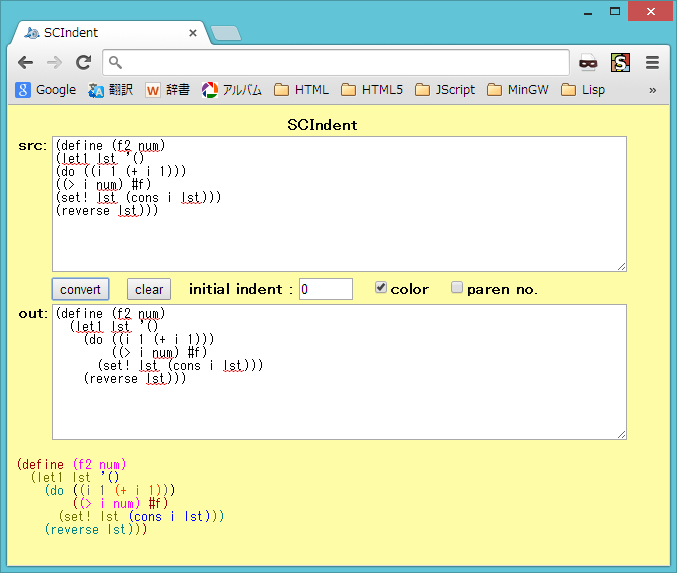
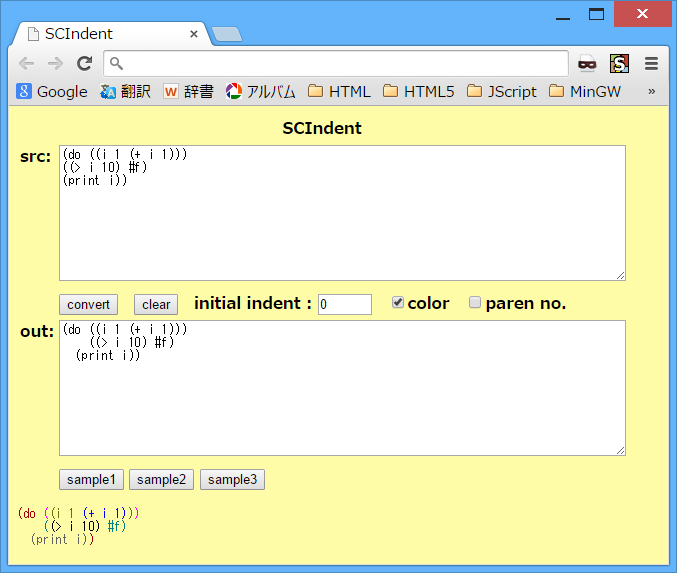
src chg v1.30

diff --git a/scindent.html b/scindent.html
@@ -5,7 +5,7 @@
 <title>SCIndent</title>
 <!--
     scindent.html
-    2015-2-11 v1.29
+    2015-5-21 v1.30
 -->
 <style type="text/css">
 <!--
@@ -87,6 +87,52 @@ function clear_button() {
     // ***** 出力のクリア *****
     document.getElementById("out_text1").value = "";
     document.getElementById("result_show1").innerHTML = "";
+    // ***** 戻り値を返す *****
+    ret = true;
+    return ret;
+}
+
+// ***** サンプルボタン *****
+function sample_button(sample_no) {
+    var ret;
+    var src_st;
+
+    // ***** 戻り値の初期化 *****
+    ret = false;
+    // ***** 要素の存在チェック *****
+    if (!document.getElementById("src_text1"))    { Alm("sample_button:0001"); return ret; }
+    // ***** ソースの設定 *****
+    switch (sample_no) {
+        case 0:
+            src_st = "(if #t\n"
+                + "'true\n"
+                + "'false)\n";
+            break;
+        case 1:
+            src_st = "(do ((i 1 (+ i 1)))\n"
+                + "((> i 10) #f)\n"
+                + "(print i))\n";
+            break;
+        case 2:
+            src_st = ";; Newton's method\n"
+                + "(define (mysqrt r)\n"
+                + "(if (> r 0)\n"
+                + "(let1 x0 (if (> r 1) r 1)\n"
+                + "(let loop ((x1 x0) (x2 (/. (+ (/. r x0) x0) 2)))\n"
+                + "(print x1 \" -> \" x2)\n"
+                + "(if (> (- x1 x2) 1.0e-10)\n"
+                + "(loop x2 (/. (+ (/. r x2) x2) 2))\n"
+                + "x2)))\n"
+                + "0))\n"
+                + "(mysqrt 2)\n";
+            break;
+        default:
+            src_st = "";
+            break;
+    }
+    document.getElementById("src_text1").value = src_st;
+    // ***** 変換ボタンを押したことにする *****
+    convert_button();
     // ***** 戻り値を返す *****
     ret = true;
     return ret;
@@ -981,6 +1027,12 @@ initial indent : <input type="text" id="init_indent" value="0" style="width: 50p
 </tr><tr>
 <th align="left" valign="top">out:</th>
 <th align="left" width="95%"><textarea id="out_text1" cols="40" rows="10" style="width: 100%;"></textarea></th>
+<th></th>
+</tr><tr>
+<th></th>
+<th align="left"><input type="button" value="sample1" onclick="sample_button(0);">
+<input type="button" value="sample2" onclick="sample_button(1);">
+<input type="button" value="sample3" onclick="sample_button(2);"></th>
 <th></th>
 </tr></table>
 <pre><span id="debug_show1"></span></pre>

diff --git a/README.md b/README.md
@@ -35,6 +35,8 @@
 
 - clearボタンをクリックすると、入出力をすべてクリアします。
 
+- sample1-3ボタンをクリックすると、変換の例を表示します。
+
 
 ## 注意事項
 1. インデントの単位は、半角スペース2個に固定です。
@@ -77,9 +79,9 @@
 
 ## 環境等
 - OS
-  - Windows 8 (64bit)
+  - Windows 8.1 (64bit)
 - ブラウザ
-  - Chrome v40
+  - Chrome v42
 
 ## 履歴
 - 2015-1-6  v1.00 (初版)
@@ -112,6 +114,7 @@
 - 2015-2-5  v1.27 一部処理見直し
 - 2015-2-9  v1.28 数値チェック処理見直し
 - 2015-2-11 v1.29 トークン分割処理見直し
+- 2015-5-21 v1.30 サンプルボタン追加
 
 
-(2015-2-11)
+(2015-5-21)
